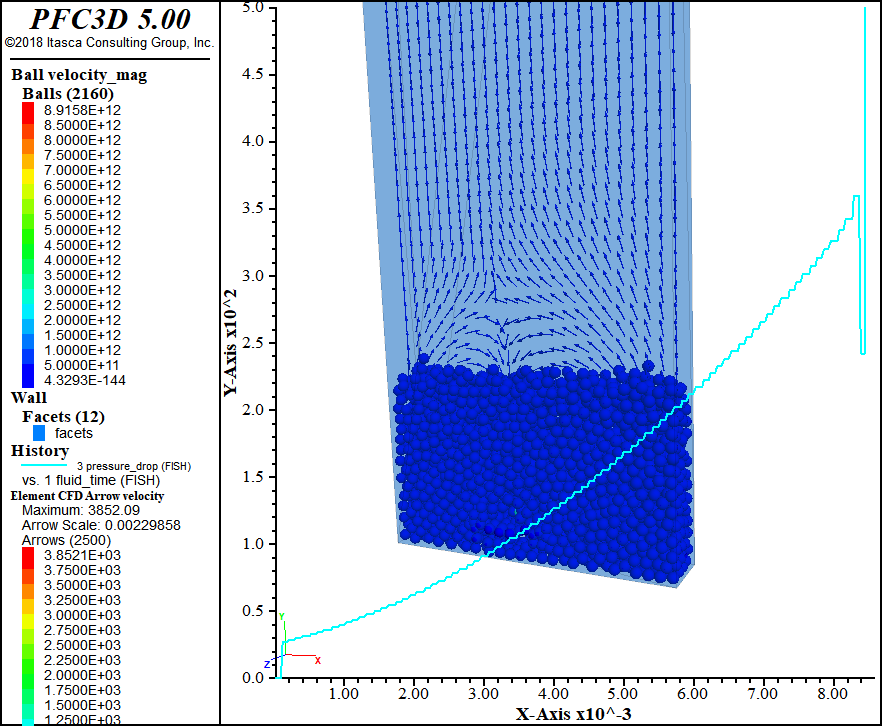
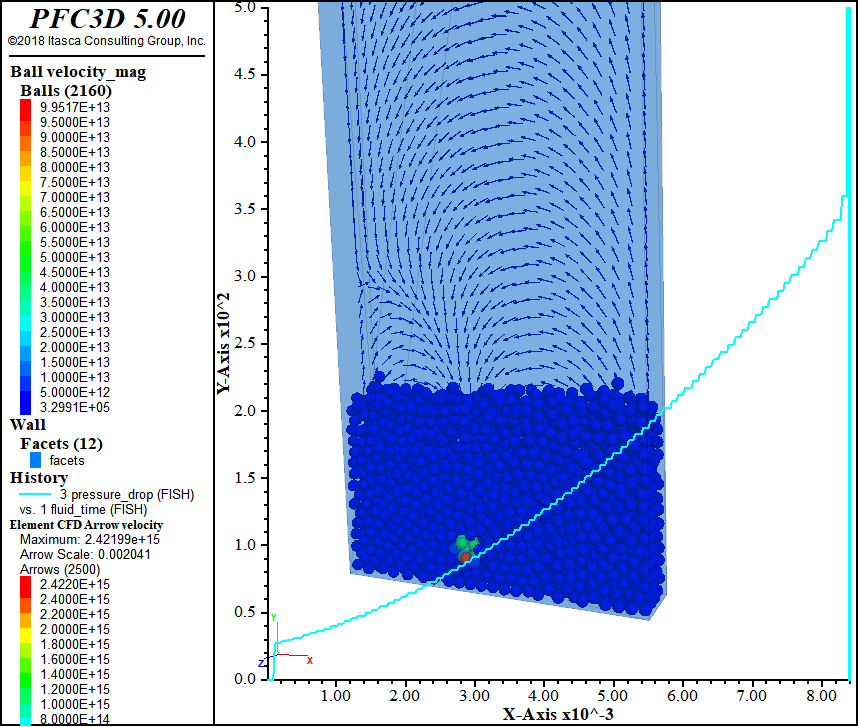
added adaptive cfd time step

diff --git a/pfc_cfd_coupler/pfc_cfd_coupler/pfc_coupler.py b/pfc_cfd_coupler/pfc_cfd_coupler/pfc_coupler.py
@@ -26,8 +26,11 @@ class pfc_coupler(object):
         self.pressureMeasureCell1 = 0
         self.pressureMeasureCell2 = 1
         self.updatePressureDrop()
-        self.dt = 0.005
+        self.max_dt = 0.005
+        self.dt = self.max_dt
+        self.time = 0.0
         self.cell_size = np.linalg.norm(self.elements_pos[0]-self.elements_pos[1])
+        self.smallest_size = 1.0
         self.bandwidth = 2*self.cell_size
         
         nmin, nmax = np.amin(self.nodes,axis=0), np.amax(self.nodes,axis=0)
@@ -118,10 +121,20 @@ class pfc_coupler(object):
         np.savetxt('vel.txt', arr, fmt='%1.6e', header="ITASCA VECTOR3D", comments='')
         it.command("vector import 'vel.txt'")
 
-    def solve(self,nsteps):
+    def updateTimeStep(self):
+        self.dt = 100.0
+        if (self.elements_vel.max()>1.0e-7):
+            self.dt = float(0.5*self.smallest_size/self.elements_vel.max())
+        if (self.max_dt < self.dt):
+            self.dt = self.max_dt
+
+    def solve(self,total_time):
+        self.time = 0.0
         self.balls_drag = np.full(ba.vel().shape,0.0)
         self.updateForce()
-        for i in range(nsteps):
+        while self.time < total_time:
+            self.updateTimeStep()
+            
             it.command("solve time {}".format(self.dt))
             
             self.updateWeights()
@@ -140,6 +153,8 @@ class pfc_coupler(object):
             self.updatePressureDrop()
             self.updateBallsDrag()
             self.updateForce()
+            
+            self.time += self.dt
 
     def stopSolve(self):
         self.link.send_data(0.0)

diff --git a/fluidized_bed_1/pfc_fluidized_bed_1.py b/fluidized_bed_1/pfc_fluidized_bed_1.py
@@ -35,9 +35,17 @@ plot add cfdelement shape arrow colorby vectorattribute "velocity"
 """.format(fluid_density, fluid_viscosity))
 
 element_volume = ca.volume()
-dt = 0.0001
+max_dt = 0.0001
+smallest_size = 0.0016
+time = 0.0
+total_time = 0.02
 
-for i in range(200):
+while time < total_time:
+    dt = 100.0
+    if (ca.velocity().max()>1.0e-7):
+        dt = float(0.5*smallest_size/ca.velocity().max())
+    if (max_dt < dt):
+        dt = max_dt
     it.command("solve time {}".format(dt))
     cfd_link.send_data(dt) # solve interval
     cfd_link.send_data(ca.porosity())
@@ -46,6 +54,7 @@ for i in range(200):
     ca.set_pressure_gradient(cfd_link.read_data())
     ca.set_velocity(cfd_link.read_data())
     it.fish.set("cfd_pressure_drop",(ca.pressure()[12] - ca.pressure()[1887]))
+    time += dt
 
 cfd_link.send_data(0.0) # solve interval
 cfd_link.close()

diff --git a/fluidized_bed_2/pfc_fluidized_bed_2.py b/fluidized_bed_2/pfc_fluidized_bed_2.py
@@ -10,11 +10,12 @@ history add id 3 fish @pressure_drop
 plot add hist 3 vs 1
 """)
 
-coupler.dt = 0.0001
+coupler.max_dt = 0.001
 coupler.bandwidth = 0.015
 coupler.pressureMeasureCell1 = 12
 coupler.pressureMeasureCell2 = 1887
-coupler.solve(200)
+coupler.smallest_size = 0.0016
+coupler.solve(0.02)
 coupler.plotFluidVel()
 coupler.stopSolve()
 coupler.close()
